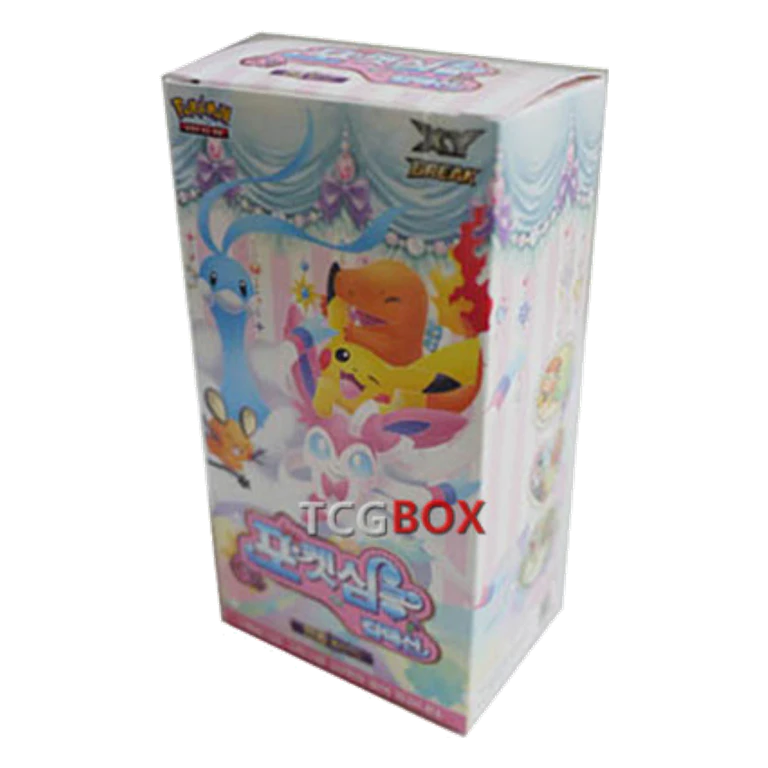
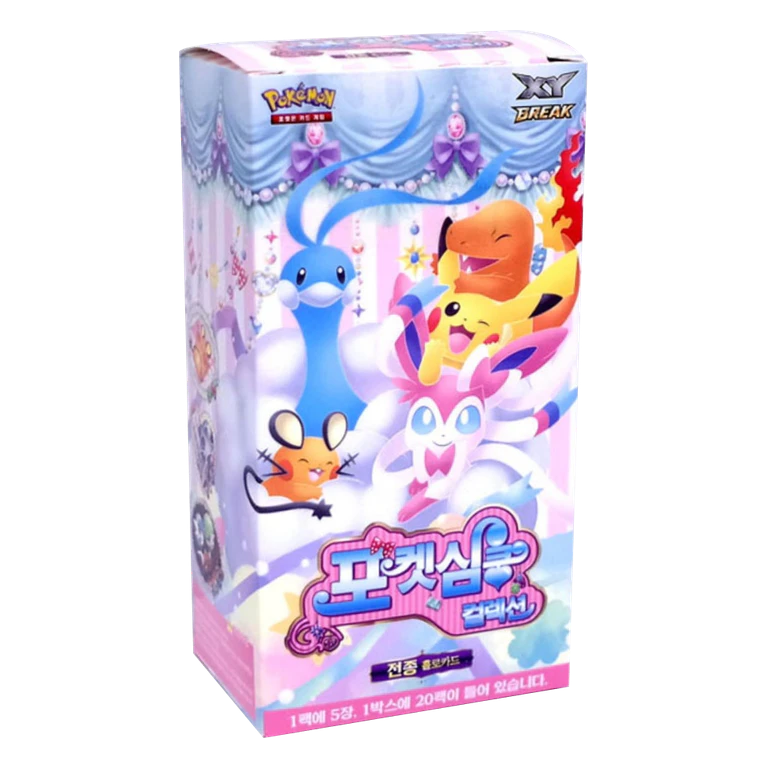
fix: 신규 4종 박스 이미지를 선명한 한국판 원본으로 교체

diff --git a/docs/xy-next-three-review-20261108.md b/docs/xy-next-three-review-20261108.md
@@ -20,7 +20,7 @@
 - 두 XY8 세트는 판매점 `PK-XY8-...` 번호를 공유한다. `fullahead_category_code`를 명시해 상품/이미지/가격이 다른 세트와 섞이지 않게 한다. 수집·보강·대조·coverage 스크립트가 이를 공유한다.
 - SR/UR 28장 전부 FullAhead 판매 표시가를 수집했다. `JPY × 9.5 × 0.65` 및 기존 반올림 규칙의 **해외 참고가**이며 한국 체결가가 아니다. 16/6/6장 모두 매칭되었고 고레어 미매칭은 0이다. 저레어 가격을 임의로 만들어 넣지 않는다.
 - 반짝임은 기존 가격 기준을 따른다. 새 세트의 SR/UR 등급만으로 효과를 강제하지 않는다. 10만/30만/80만원 가격 단계의 공통 효과를 회귀검사했다.
-- 박스 원본은 [TCGBOX 밴디트링](https://tcgbox.co.kr/product/xy7-밴디트링-박스/1586/), [푸른 충격](https://tcgbox.co.kr/product/xy8-푸른-충격-box/1590/), [붉은 섬광](https://tcgbox.co.kr/product/xy8-붉은-섬광-box/1588/)에서 확보했다. 한국판 밀봉 박스·정방향을 확인하고 원본 JPG를 보존한다. 판매점 워터마크는 유지하며 외곽 배경만 제거한 768 PNG/768 WebP를 사용한다.
+- 박스 이미지는 사용자 검수 후 저해상도 판매점 워터마크 사진을 폐기하고 KREAM의 한국판 단일 박스 상품([밴디트링](https://kream.co.kr/products/55689), [푸른 충격](https://kream.co.kr/products/54912), [붉은 섬광](https://kream.co.kr/products/53593))의 워터마크 없는 1120×1120 투명 PNG로 교체했다. 한국어 인쇄·닫힌 박스·팩 수를 대조했으며 원본 알파를 보존해 768 PNG/WebP로 정규화했다. 원본·출처 URL·해시는 [이미지 원장](../data/manual/xy-box-image-sources-20261108.json)에 보존한다.
 
 ## 봉입 모델과 한계
 

diff --git a/docs/cp3-pokekyun-review-20261108.md b/docs/cp3-pokekyun-review-20261108.md
@@ -7,7 +7,7 @@
 - [한국 공식 상품](https://pokemoncard.co.kr/card/67): 20팩×5장, 팩 1,000원·박스 20,000원. 현재 상품 헤더의 날짜는 2016-04-01이나 당시 영상 설명에는 4월 21일 발매라고 되어 있다. 데이터는 공식 헤더를 유지하며 날짜 차이를 메타에 기록했다.
 - [일본 공식 상품](https://www.pokemon-card.com/products/xy/cp3.html): 2016-01-29, 4장 팩·전 카드 홀로. 일본 개봉 박스는 20팩이다. 한국의 추가 1장을 이유로 RR 확률을 5/4배 하지 않는다.
 - 한국 공식 카드 BS2016003001~032: C 13종·U 12종·RR 7종. 피카츄와 풀아트 EX도 **RR**이다. SR/UR 및 별도 시크릿 풀을 만들지 않았다. RR은 006/007/010/019/020/025/026이다.
-- 박스 원본은 [TCGBOX 한국 상품](https://tcgbox.co.kr/product/xy-break-확장팩-포켓심쿵-컬렉션-박스/2211/)의 [이미지](https://tcgbox.co.kr/web/product/big/201604/2211_shop1_714332.jpg)를 보존하고 기존 배경 제거·768 PNG/WebP 파이프라인을 적용했다. 밝은 옆면이 지워지지 않도록 `--background-threshold 245 --max-chroma 20`을 사용했다. 제품 인쇄와 워터마크는 보존했다.
+- 박스 이미지는 사용자 검수 후 저해상도 판매점 워터마크 사진을 폐기하고 [KREAM 한국판 20팩 박스](https://kream.co.kr/products/755808)의 워터마크 없는 1120×1120 투명 PNG로 교체했다. 원본 알파와 인쇄를 보존하여 기존 파이프라인으로 768 PNG/WebP를 생성했다. 출처 URL·원본 해시는 [이미지 원장](../data/manual/xy-box-image-sources-20261108.json)에 기록한다.
 
 ## 중복 제거한 개봉 원장
 
